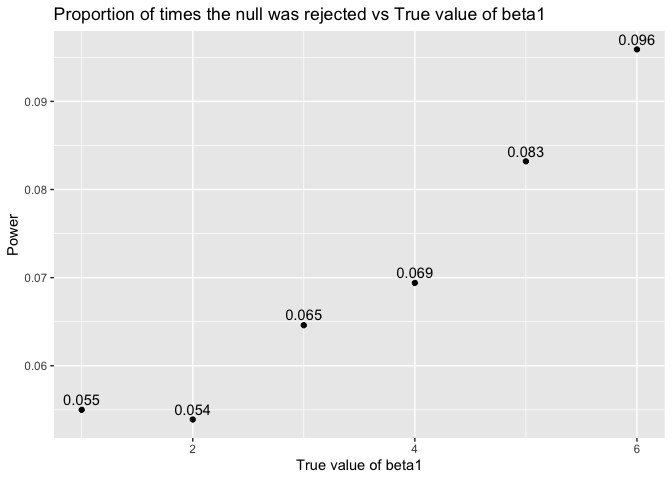
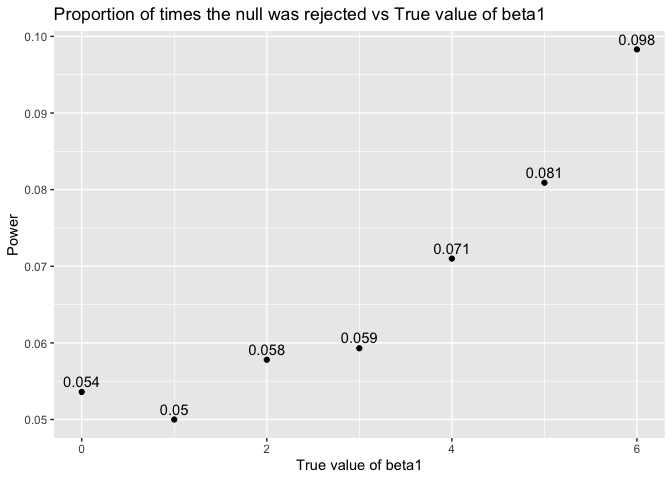
code modification

diff --git a/p8105_hw5_sl4659.md b/p8105_hw5_sl4659.md
@@ -38,8 +38,6 @@ library(rvest)
     ##     guess_encoding
 
 ``` r
-library(broom)
-
 set.seed(20191029)
 # load the iris dataset from the tidyverse package 
 # introduce some missing values in each column
@@ -128,12 +126,12 @@ sim_regression = function(n = 30, beta0 = 2, beta1) {
     x = rnorm(n, mean = 0, sd = 1),
     y = beta0 + beta1 * x + rnorm(n, 0, 50)
   )
-  ls_fit = lm(y ~ x, data = sim_data)
+  ls_fit = lm(y ~ x, data = sim_data) %>% 
   # use tidy to obtain the estimate and p-value
-  ls_tidy = tidy(ls_fit, conf.int = TRUE, conf.level = 0.95)
+  broom::tidy()
   tibble(
-    beta1_hat = ls_tidy$estimate[2],
-    p_value = ls_tidy$p.value[2]
+    beta1_hat = ls_fit$estimate[2],
+    p_value = ls_fit$p.value[2]
   )
 }
 # write a function to generate n datasets from the model
@@ -144,7 +142,7 @@ sim_ite = function(n=10000, beta1) {
 # case: beta1 = 0
 zero_df = sim_ite(beta1 = 0)
 # case: beta1 = 1, 2, 3, 4, 5, 6
-beta1_ls = c(1, 2, 3, 4, 5, 6)
+beta1_ls = c(0, 1, 2, 3, 4, 5, 6)
 beta1_char = as.character(beta1_ls)
 names(beta1_ls) = beta1_char
 names(beta1_char) = beta1_char
@@ -163,7 +161,7 @@ power_df = tibble(beta1 = names(power_vec), power = power_vec)
 power_df$beta1 = as.integer(power_df$beta1)
 ggplot(power_df, aes(x = beta1, y = power)) + 
   geom_point() + 
-  geom_text(aes(label = round(power, digits = 3)), vjust = rep(-0.5, each = 6)) +
+  geom_text(aes(label = round(power, digits = 3)), vjust = rep(-0.5, each = 7)) +
   # title, label and caption
   labs(
     title = "Proportion of times the null was rejected vs True value of beta1",
@@ -192,7 +190,7 @@ mean_df = tibble(beta1 = names(mean_vec), mean = mean_vec)
 mean_df$beta1 = as.integer(mean_df$beta1)
 ggplot(mean_df, aes(x = beta1, y = mean)) + 
   geom_point() +
-  geom_text(aes(label = round(mean, digits = 2)), vjust = rep(-0.5, each = 6)) +
+  geom_text(aes(label = round(mean, digits = 2)), vjust = rep(-0.5, each = 7)) +
   # title, label and caption
   labs(
     title = "Average estimate of beta1_hat vs True value of beta1",
@@ -216,7 +214,7 @@ null_df = tibble(beta1 = names(null_vec), mean = null_vec)
 null_df$beta1 = as.integer(mean_df$beta1)
 ggplot(null_df, aes(x = beta1, y = mean)) + 
   geom_point() +
-  geom_text(aes(label = round(mean, digits = 2)), vjust = rep(-0.5, each = 6)) +
+  geom_text(aes(label = round(mean, digits = 2)), vjust = rep(-0.5, each = 7)) +
   # title, label and caption
   labs(
     title = "Average estimate of beta1_hat (rejected H0) vs True value of beta1",
